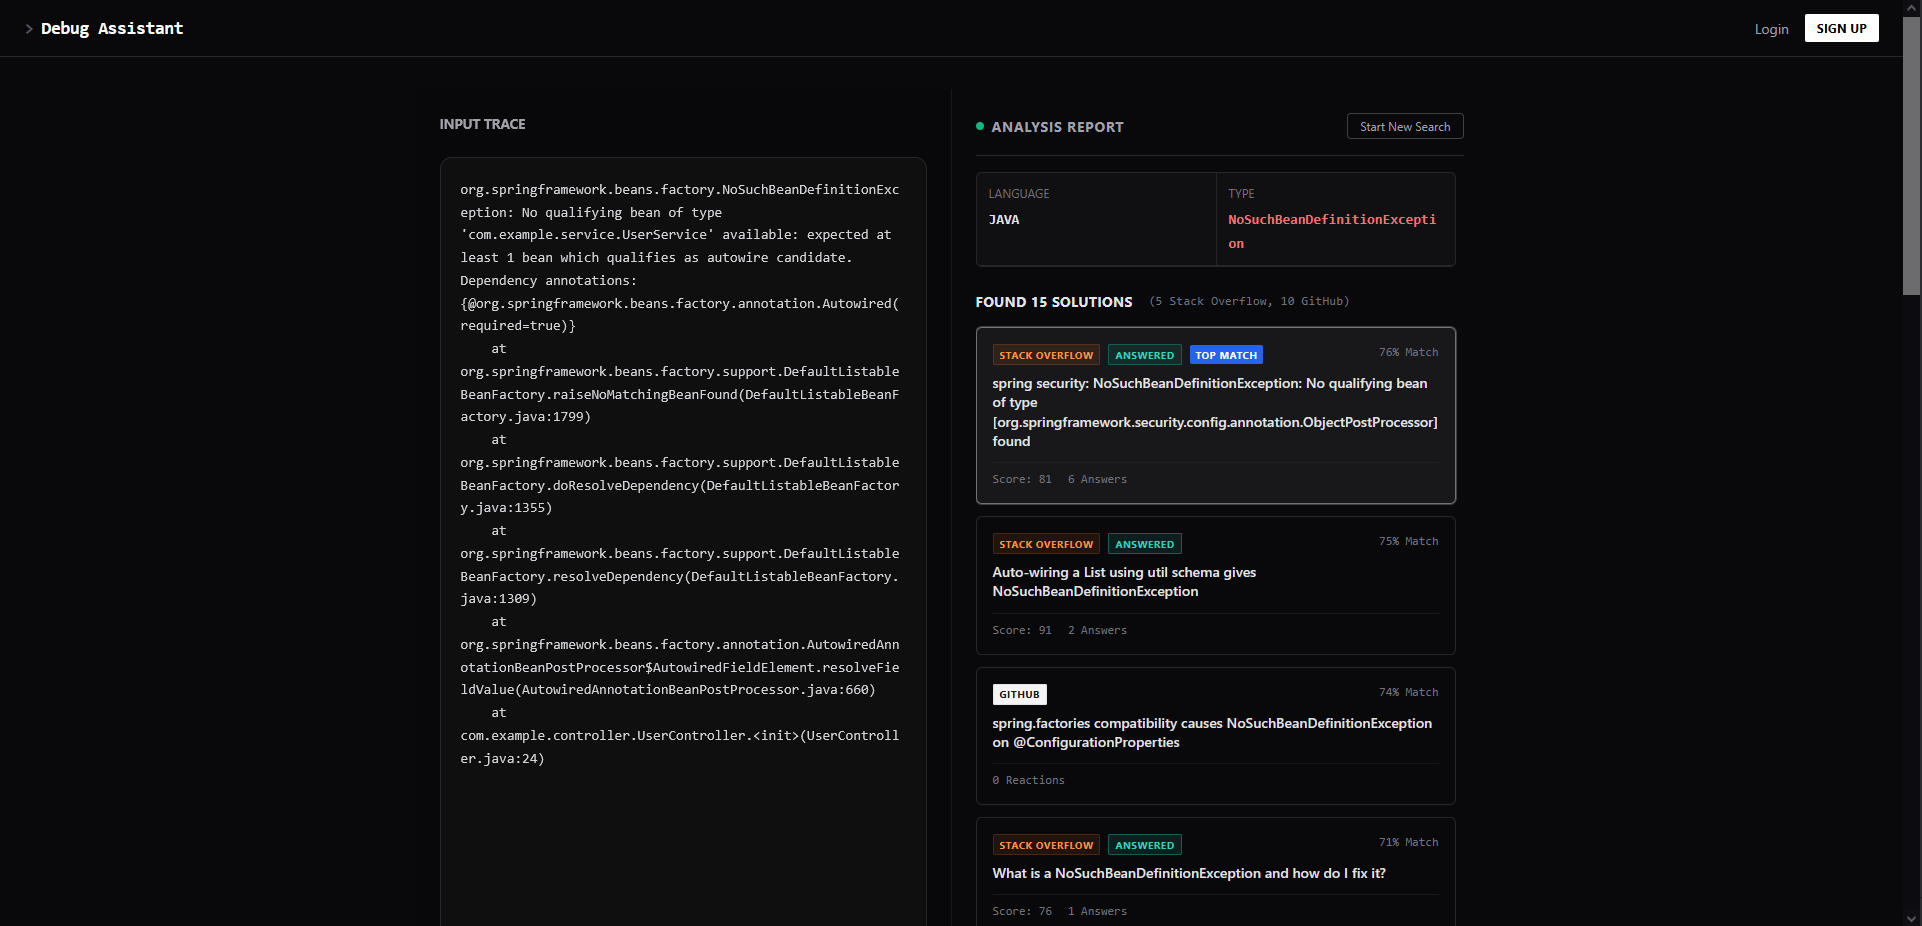
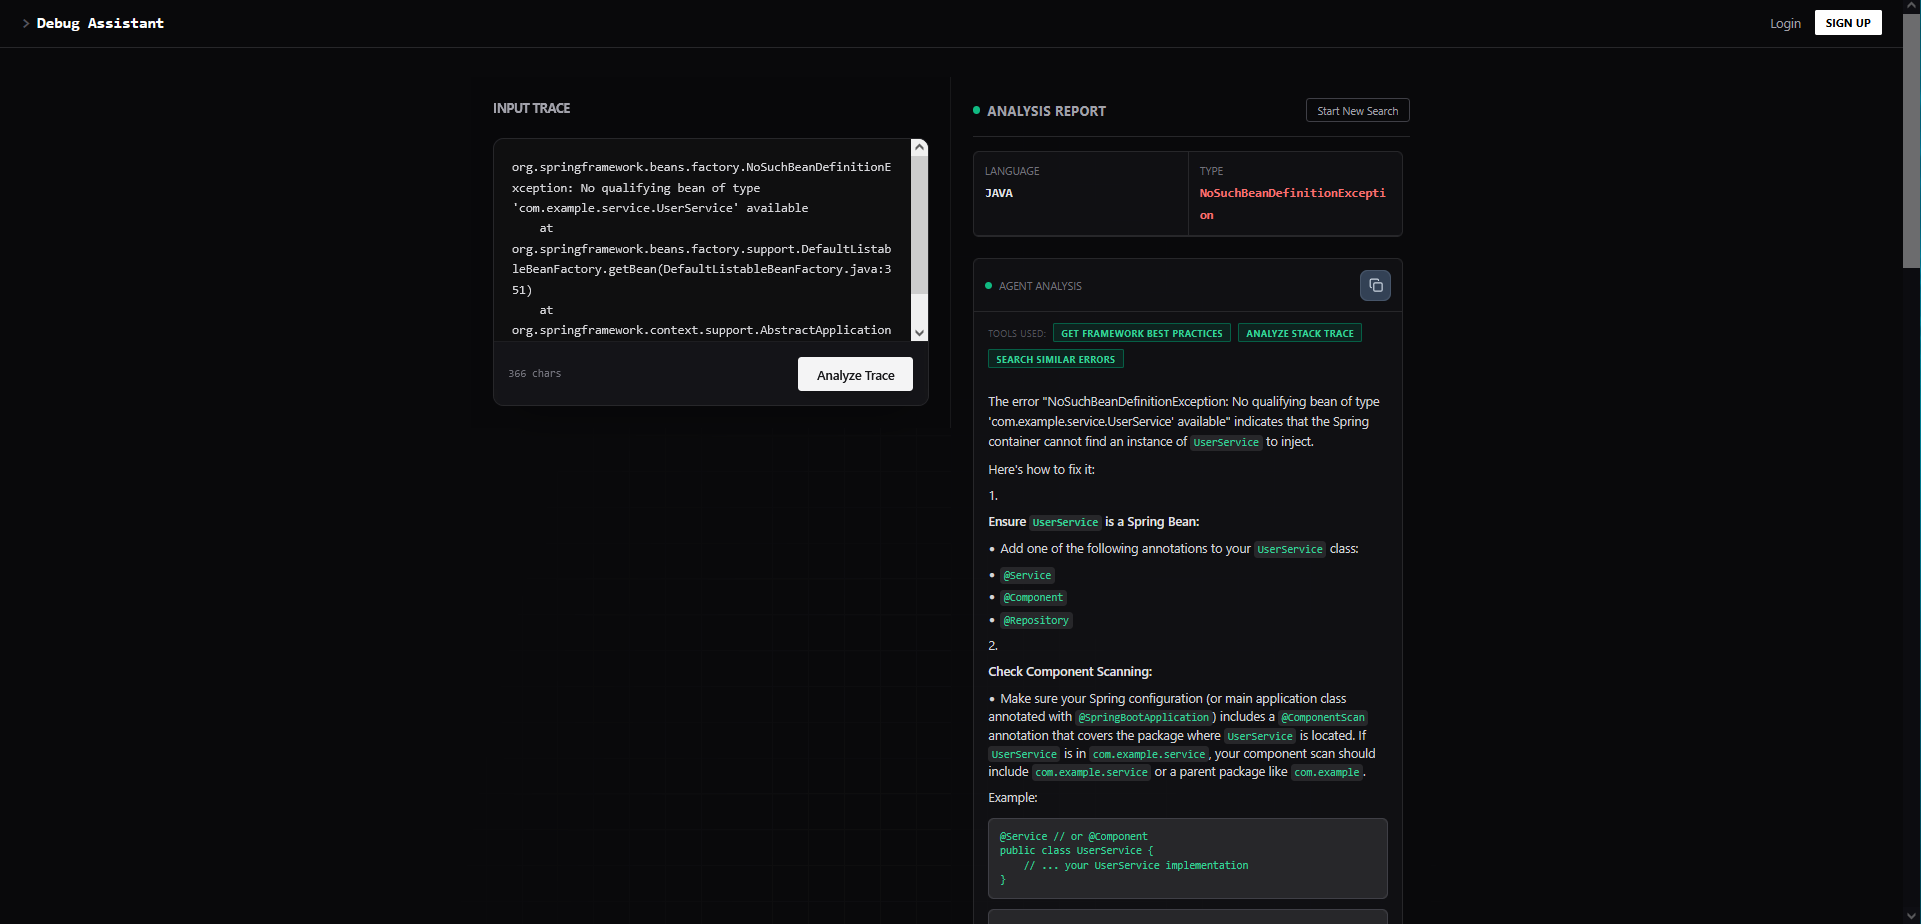
docs: update screenshot and document toolsUsed in API response

diff --git a/README.md b/README.md
@@ -93,6 +93,7 @@ React 19 + TypeScript with Vite.
 * Loading states and skeleton components
 * Copy-to-clipboard for results
 * Error boundaries for runtime error handling
+* Agent analysis with rendered Markdown and visible tool selection
 
 **Testing:**
 * Unit/Component tests: Vitest + Testing Library
@@ -129,7 +130,7 @@ docker compose down
 }
 ```
 
-Response includes language, exceptionType, keywords, rootCause, heuristic results from GitHub/Stack Overflow, and mlAnalysis with the agent's explanation.
+Response includes language, exceptionType, keywords, rootCause, heuristic results from GitHub/Stack Overflow, mlAnalysis with the agent's explanation, and toolsUsed listing which tools the agent autonomously selected.
 
 ### History (JWT-protected)
 
